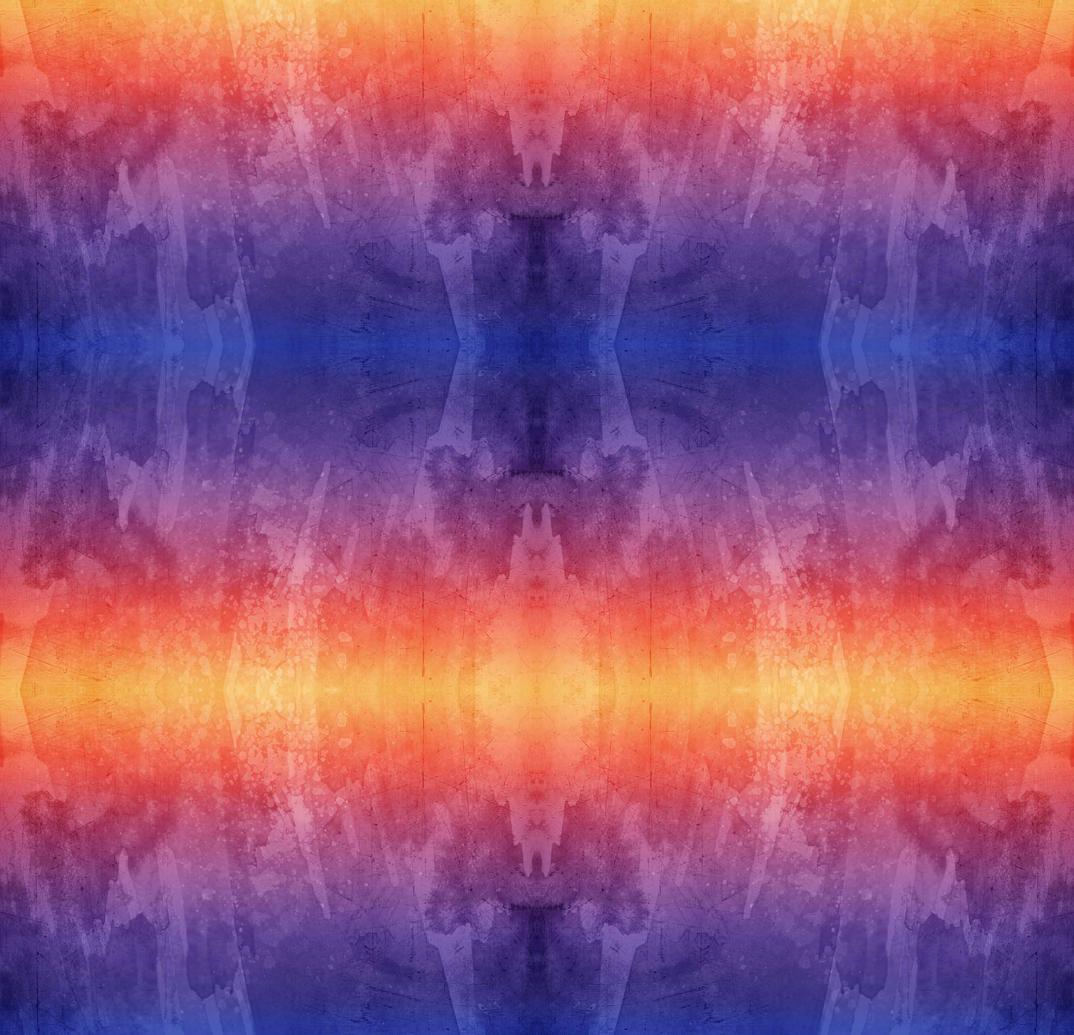
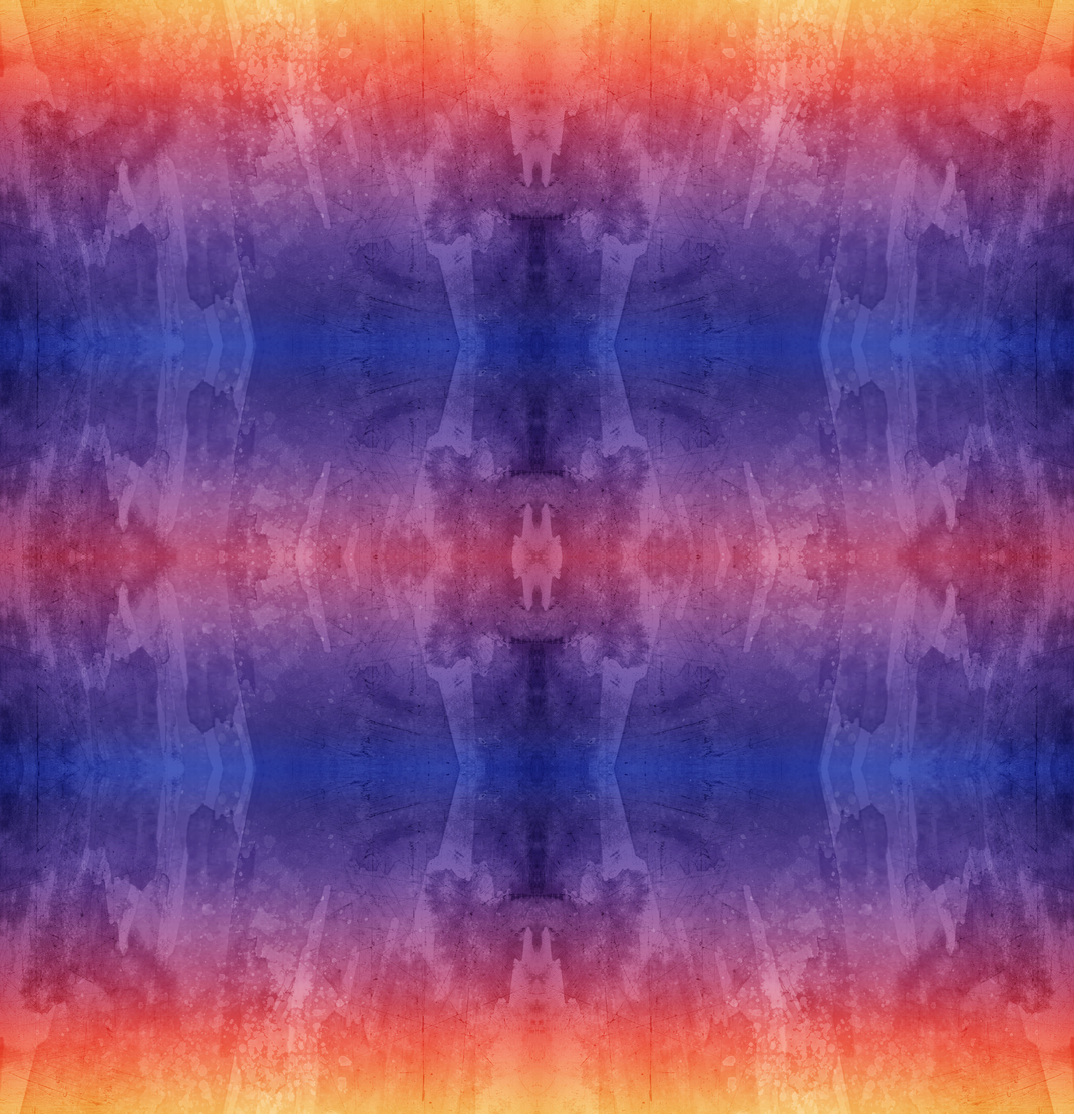
updated profile and increased opacity of jumbotron

diff --git a/index.html b/index.html
@@ -17,22 +17,22 @@
 					<div class="row">
 						<!--Navbar contents-->
 						<div class="col-md-offset-1 col-md-2 col-xs-3">
-							<a id="navbarElements" class="navbar-brand hvr-pulse" href="https://github.com/drrnyip">
+							<a id="navbarElements" class="navbar-brand hvr-pulse-grow" href="https://github.com/drrnyip">
 							<span><i class="fa fa-github fa-2x" aria-hidden="true"></i></span>
 							<small class="hidden-xs">GitHub</small></a>
 						</div>
 						<div class="col-md-2 col-xs-3">
-							<a id="navbarElements" class="navbar-brand hvr-pulse" href="https://www.linkedin.com/in/darren-yip-317b43ab?trk=nav_responsive_tab_profile">
+							<a id="navbarElements" class="navbar-brand hvr-pulse-grow" href="https://www.linkedin.com/in/darren-yip-317b43ab?trk=nav_responsive_tab_profile">
 							<span><i class="fa fa-linkedin-square fa-2x" aria-hidden="true"></i></span>
 							<small class="hidden-xs">LinkedIn</small></a>
 						</div>
 						<div class="col-md-2 col-xs-3">
-							<a id="navbarElements" class="navbar-brand hvr-pulse" href="https://www.facebook.com/drrnyip">
+							<a id="navbarElements" class="navbar-brand hvr-pulse-grow" href="https://www.facebook.com/drrnyip">
 							<span><i class="fa fa-facebook-official fa-2x" aria-hidden="true"></i></span>
 							<small class="hidden-xs">Facebook</small></a>
 						</div>
 						<div class="col-md-2 col-xs-3">
-							<a id="navbarElements" class="navbar-brand hvr-pulse" href="mailto:drrnyip@gmail.com">
+							<a id="navbarElements" class="navbar-brand hvr-pulse-grow" href="mailto:drrnyip@gmail.com">
 							<span><i class="fa fa-envelope fa-2x" aria-hidden="true"></i></span>
 							<small class="hidden-xs">Email</small></a>
 						</div>
@@ -61,7 +61,9 @@
 		<div class="accordion col-md-offset-2 col-md-8 col-xs-12 hvr-bob" id="accordion1">
 			<h3 class="subject">Profile</h3>
 			<div class="filling" id="profile">
-				<p class="filling1">Currently a graduate student in Southern Connecticut State University, this programmer used to be in the business of news peddling and story writing. He now writes code instead of stories, and finds the former a much more relaxing endeavor. Until something breaks, that is.</p>
+				<p class="filling1">Currently a graduate student in Southern Connecticut State University, this programmer used to be in the business of news peddling and story writing. He now writes code instead of stories, and finds the former a much more relaxing endeavor. Until something breaks, that is.
+				<br><br>
+				Although he considers Java to be his primary language and is relatively proficient in front-end development, his current aspiration is to excel in full-stack development — he considers himself to be half-stacked for now. While not tinkering and building something on his computer, he can usually be found either with his nose in a book or his fingers on a piano.</p>
 			</div>
 		</div>
 		<div class="accordion col-md-offset-2 col-md-8 col-xs-12 hvr-bob" id="accordion2">

diff --git a/assets/css/styles.css b/assets/css/styles.css
@@ -1,6 +1,6 @@
 #jumbo{
 	background-color: rgba(0,0,0,0);
-	background-image: url(../img/sketch10.png);
+	background-image: url(../img/sketch14.png);
 	background-position: right top;
 	border-bottom: 7px ridge #ececec;
 }
